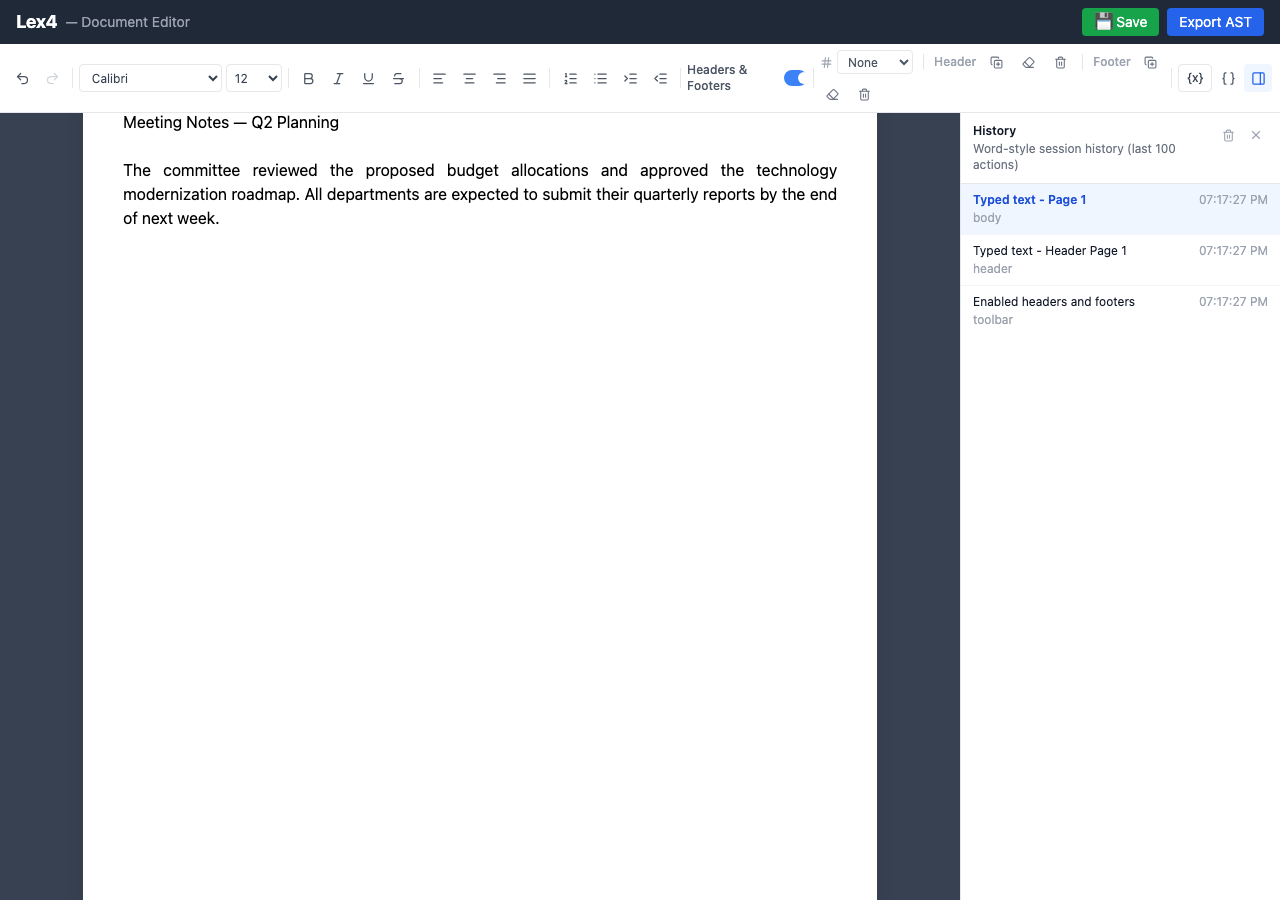
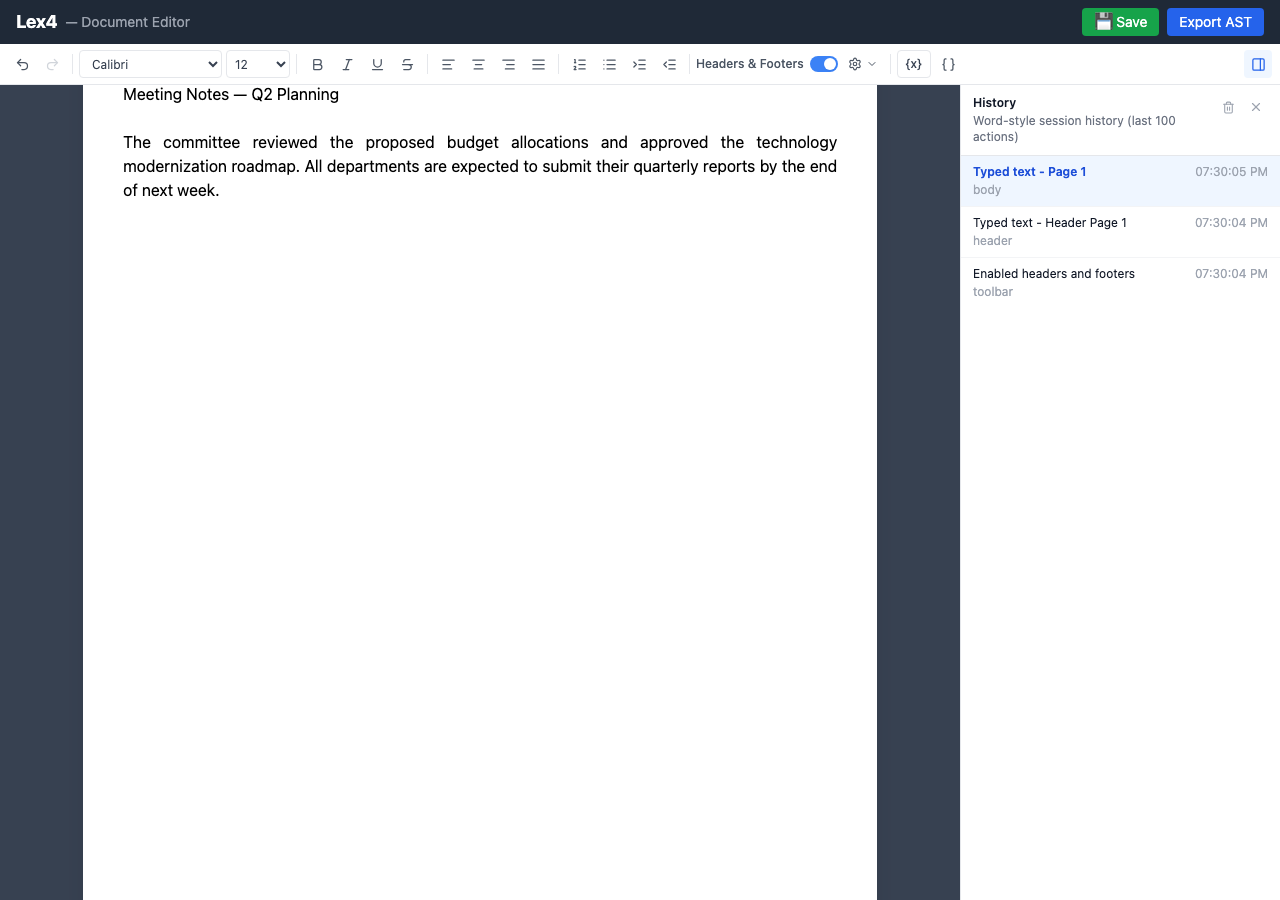
Restructure header/footer toolbar into popover menu
Replace flat icon-only toolbar buttons with a settings popover dropdown.
Actions are now grouped into labeled sections (Page Counter, Header,
Footer) with text labels for better discoverability. Page counter
selector changed from <select> to radio-style buttons.

diff --git a/packages/editor/src/components/HeaderFooterActions.tsx b/packages/editor/src/components/HeaderFooterActions.tsx
@@ -1,6 +1,7 @@
-import React from 'react';
+import React, { useCallback, useEffect, useRef, useState } from 'react';
 import {
-  Hash,
+  Settings,
+  ChevronDown,
   CopyPlus,
   Eraser,
   Trash2,
@@ -19,6 +20,13 @@ interface HeaderFooterActionsProps {
   onClearAllFooters: () => void;
 }
 
+const PAGE_COUNTER_OPTIONS: { value: PageCounterMode; label: string }[] = [
+  { value: 'none', label: 'None' },
+  { value: 'header', label: 'Header' },
+  { value: 'footer', label: 'Footer' },
+  { value: 'both', label: 'Both' },
+];
+
 export const HeaderFooterActions: React.FC<HeaderFooterActionsProps> = ({
   activePageId,
   pageCounterMode,
@@ -30,112 +38,160 @@ export const HeaderFooterActions: React.FC<HeaderFooterActionsProps> = ({
   onClearAllHeaders,
   onClearAllFooters,
 }) => {
+  const [open, setOpen] = useState(false);
+  const containerRef = useRef<HTMLDivElement>(null);
   const hasActivePage = activePageId !== null;
-  const handlePageCounterModeChange = (event: React.ChangeEvent<HTMLSelectElement>) => {
-    const nextMode = event.target.value;
-    if (nextMode === 'none' || nextMode === 'header' || nextMode === 'footer' || nextMode === 'both') {
-      onPageCounterModeChange(nextMode);
-    }
+
+  const close = useCallback(() => setOpen(false), []);
+
+  useEffect(() => {
+    if (!open) return;
+    const handleClickOutside = (e: MouseEvent) => {
+      if (containerRef.current && !containerRef.current.contains(e.target as Node)) {
+        close();
+      }
+    };
+    document.addEventListener('mousedown', handleClickOutside);
+    return () => document.removeEventListener('mousedown', handleClickOutside);
+  }, [open, close]);
+
+  const handleAction = (action: () => void) => {
+    action();
+    close();
   };
 
   return (
-    <div
-      className="flex flex-wrap items-center gap-2 text-xs"
-      data-testid="header-footer-actions"
-    >
-      <label className="flex items-center gap-1 text-gray-500" htmlFor="page-counter-mode">
-        <Hash size={13} className="text-gray-400" />
-        <select
-          id="page-counter-mode"
-          className="h-6 rounded border border-gray-200 bg-white px-1.5 text-xs text-gray-600
-                     focus:border-blue-400 focus:outline-none focus:ring-1 focus:ring-blue-400"
-          data-testid="page-counter-mode"
-          value={pageCounterMode}
-          onChange={handlePageCounterModeChange}
+    <div ref={containerRef} className="relative" data-testid="header-footer-actions">
+      <button
+        type="button"
+        onMouseDown={(e) => e.preventDefault()}
+        onClick={() => setOpen(!open)}
+        className={`
+          flex h-7 items-center gap-1 rounded px-1.5 text-xs transition-colors
+          ${open
+            ? 'bg-blue-50 text-blue-600'
+            : 'text-gray-600 hover:bg-gray-100 hover:text-gray-900'}
+        `}
+        data-testid="header-footer-menu-trigger"
+        aria-expanded={open}
+        aria-haspopup="true"
+      >
+        <Settings size={14} />
+        <ChevronDown size={12} />
+      </button>
+
+      {open && (
+        <div
+          className="absolute left-0 top-full mt-1 z-50 w-56 rounded-lg border border-gray-200 bg-white py-1 shadow-lg"
+          role="menu"
+          data-testid="header-footer-menu"
         >
-          <option value="none">None</option>
-          <option value="header">Header</option>
-          <option value="footer">Footer</option>
-          <option value="both">Both</option>
-        </select>
-      </label>
+          <SectionLabel>Page counter</SectionLabel>
+          <div className="px-3 pb-2 grid grid-cols-2 gap-1" data-testid="page-counter-mode">
+            {PAGE_COUNTER_OPTIONS.map(({ value, label }) => (
+              <button
+                key={value}
+                type="button"
+                role="menuitemradio"
+                aria-checked={pageCounterMode === value}
+                onMouseDown={(e) => e.preventDefault()}
+                onClick={() => onPageCounterModeChange(value)}
+                className={`
+                  rounded px-2 py-1 text-xs text-left transition-colors
+                  ${pageCounterMode === value
+                    ? 'bg-blue-50 text-blue-700 font-medium'
+                    : 'text-gray-600 hover:bg-gray-100'}
+                `}
+                data-testid={`page-counter-${value}`}
+              >
+                {label}
+              </button>
+            ))}
+          </div>
 
-      <ActionDivider />
+          <MenuDivider />
 
-      <span className="text-gray-400 font-medium">Header</span>
-      <ActionIconButton
-        title="Copy header to all pages"
-        icon={<CopyPlus size={13} />}
-        onClick={onCopyHeaderToAll}
-        disabled={!hasActivePage}
-        testId="copy-header-all"
-      />
-      <ActionIconButton
-        title="Clear header on this page"
-        icon={<Eraser size={13} />}
-        onClick={onClearHeader}
-        disabled={!hasActivePage}
-        testId="clear-header"
-      />
-      <ActionIconButton
-        title="Clear all headers"
-        icon={<Trash2 size={13} />}
-        onClick={onClearAllHeaders}
-        testId="clear-all-headers"
-      />
+          <SectionLabel>Header</SectionLabel>
+          <MenuItem
+            icon={<CopyPlus size={14} />}
+            label="Copy to all pages"
+            onClick={() => handleAction(onCopyHeaderToAll)}
+            disabled={!hasActivePage}
+            testId="copy-header-all"
+          />
+          <MenuItem
+            icon={<Eraser size={14} />}
+            label="Clear this page"
+            onClick={() => handleAction(onClearHeader)}
+            disabled={!hasActivePage}
+            testId="clear-header"
+          />
+          <MenuItem
+            icon={<Trash2 size={14} />}
+            label="Clear all"
+            onClick={() => handleAction(onClearAllHeaders)}
+            testId="clear-all-headers"
+          />
 
-      <ActionDivider />
+          <MenuDivider />
 
-      <span className="text-gray-400 font-medium">Footer</span>
-      <ActionIconButton
-        title="Copy footer to all pages"
-        icon={<CopyPlus size={13} />}
-        onClick={onCopyFooterToAll}
-        disabled={!hasActivePage}
-        testId="copy-footer-all"
-      />
-      <ActionIconButton
-        title="Clear footer on this page"
-        icon={<Eraser size={13} />}
-        onClick={onClearFooter}
-        disabled={!hasActivePage}
-        testId="clear-footer"
-      />
-      <ActionIconButton
-        title="Clear all footers"
-        icon={<Trash2 size={13} />}
-        onClick={onClearAllFooters}
-        testId="clear-all-footers"
-      />
+          <SectionLabel>Footer</SectionLabel>
+          <MenuItem
+            icon={<CopyPlus size={14} />}
+            label="Copy to all pages"
+            onClick={() => handleAction(onCopyFooterToAll)}
+            disabled={!hasActivePage}
+            testId="copy-footer-all"
+          />
+          <MenuItem
+            icon={<Eraser size={14} />}
+            label="Clear this page"
+            onClick={() => handleAction(onClearFooter)}
+            disabled={!hasActivePage}
+            testId="clear-footer"
+          />
+          <MenuItem
+            icon={<Trash2 size={14} />}
+            label="Clear all"
+            onClick={() => handleAction(onClearAllFooters)}
+            testId="clear-all-footers"
+          />
+        </div>
+      )}
     </div>
   );
 };
 
-interface ActionIconButtonProps {
-  title: string;
+const SectionLabel: React.FC<{ children: React.ReactNode }> = ({ children }) => (
+  <div className="px-3 pt-2 pb-1 text-[10px] font-semibold uppercase tracking-wider text-gray-400">
+    {children}
+  </div>
+);
+
+interface MenuItemProps {
   icon: React.ReactNode;
+  label: string;
   onClick: () => void;
   disabled?: boolean;
   testId: string;
 }
 
-const ActionIconButton: React.FC<ActionIconButtonProps> = ({ title, icon, onClick, disabled, testId }) => (
+const MenuItem: React.FC<MenuItemProps> = ({ icon, label, onClick, disabled, testId }) => (
   <button
     type="button"
-    title={title}
-    aria-label={title}
+    role="menuitem"
     onMouseDown={(e) => e.preventDefault()}
     onClick={onClick}
     disabled={disabled}
-    className="flex h-6 w-6 items-center justify-center rounded text-gray-500 transition-colors
-               hover:bg-gray-200/60 hover:text-gray-700
-               disabled:cursor-not-allowed disabled:text-gray-300"
+    className="flex w-full items-center gap-2 px-3 py-1.5 text-xs text-gray-700 transition-colors
+               hover:bg-gray-50 disabled:cursor-not-allowed disabled:text-gray-300"
     data-testid={testId}
   >
     {icon}
+    {label}
   </button>
 );
 
-const ActionDivider: React.FC = () => (
-  <div className="mx-0.5 h-4 w-px bg-gray-300/60" />
+const MenuDivider: React.FC = () => (
+  <div className="my-1 h-px bg-gray-100" />
 );

diff --git a/e2e/tests/page-counter.spec.ts b/e2e/tests/page-counter.spec.ts
@@ -36,16 +36,18 @@ test.describe('Page Counter', () => {
   test('page counter selector appears with header/footer controls', async ({ page }) => {
     await page.getByTestId('header-footer-switch').click();
 
-    const selector = page.getByTestId('page-counter-mode');
-    await expect(selector).toBeVisible();
-    await expect(selector).toHaveValue('none');
+    await page.getByTestId('header-footer-menu-trigger').click();
+    const menu = page.getByTestId('page-counter-mode');
+    await expect(menu).toBeVisible();
+    await expect(page.getByTestId('page-counter-none')).toHaveAttribute('aria-checked', 'true');
   });
 
   test('page counter can render in the header across all pages', async ({ page }) => {
     await page.getByTestId('header-footer-switch').click();
     await createAdditionalPages(page);
 
-    await page.getByTestId('page-counter-mode').selectOption('header');
+    await page.getByTestId('header-footer-menu-trigger').click();
+    await page.getByTestId('page-counter-header').click();
 
     const pageCount = await page.locator('[data-page-id]').count();
     expect(pageCount).toBeGreaterThanOrEqual(2);
@@ -62,7 +64,8 @@ test.describe('Page Counter', () => {
     await page.getByTestId('header-footer-switch').click();
     await createAdditionalPages(page);
 
-    await page.getByTestId('page-counter-mode').selectOption('both');
+    await page.getByTestId('header-footer-menu-trigger').click();
+    await page.getByTestId('page-counter-both').click();
 
     const pageCount = await page.locator('[data-page-id]').count();
     expect(pageCount).toBeGreaterThanOrEqual(2);
@@ -78,14 +81,15 @@ test.describe('Page Counter', () => {
 
   test('page counter can render in the footer and be disabled again', async ({ page }) => {
     await page.getByTestId('header-footer-switch').click();
-    await page.getByTestId('page-counter-mode').selectOption('footer');
+    await page.getByTestId('header-footer-menu-trigger').click();
+    await page.getByTestId('page-counter-footer').click();
 
     const footerCounters = page.locator('[data-testid^="page-counter-footer-"]');
     await expect(footerCounters).toHaveCount(1);
     await expect(footerCounters.first()).toHaveText('Page 1 of 1');
     await expect(page.locator('[data-testid^="page-counter-header-"]')).toHaveCount(0);
 
-    await page.getByTestId('page-counter-mode').selectOption('none');
+    await page.getByTestId('page-counter-none').click();
     await expect(page.locator('[data-testid^="page-counter-footer-"]')).toHaveCount(0);
   });
 });

diff --git a/e2e/tests/header-footer-pagination.spec.ts b/e2e/tests/header-footer-pagination.spec.ts
@@ -66,6 +66,7 @@ test.describe('Header/Footer Pagination', () => {
 
     await typeLargeRegion(page, 'header');
     await page.locator('[data-testid^="page-body-"]').first().click();
+    await page.getByTestId('header-footer-menu-trigger').click();
     await page.getByTestId('copy-header-all').click();
     await page.waitForTimeout(5000);
 
@@ -82,6 +83,7 @@ test.describe('Header/Footer Pagination', () => {
 
     await typeLargeRegion(page, 'footer');
     await page.locator('[data-testid^="page-body-"]').first().click();
+    await page.getByTestId('header-footer-menu-trigger').click();
     await page.getByTestId('copy-footer-all').click();
     await page.waitForTimeout(5000);
 
@@ -96,11 +98,13 @@ test.describe('Header/Footer Pagination', () => {
     await createLargeBody(page);
     await typeLargeRegion(page, 'header');
     await page.locator('[data-testid^="page-body-"]').first().click();
+    await page.getByTestId('header-footer-menu-trigger').click();
     await page.getByTestId('copy-header-all').click();
     await page.waitForTimeout(5000);
 
     const expandedPageCount = await page.locator('[data-page-id]').count();
 
+    await page.getByTestId('header-footer-menu-trigger').click();
     await page.getByTestId('clear-all-headers').click();
     await page.waitForTimeout(5000);
 

diff --git a/packages/editor/src/components/Toolbar.tsx b/packages/editor/src/components/Toolbar.tsx
@@ -350,20 +350,17 @@ export const Toolbar: React.FC = () => {
         />
 
         {document.headerFooterEnabled && (
-          <>
-            <Divider />
-            <HeaderFooterActions
-              activePageId={activePageId}
-              pageCounterMode={document.pageCounterMode}
-              onPageCounterModeChange={handlePageCounterModeChange}
-              onCopyHeaderToAll={handleCopyHeaderToAll}
-              onCopyFooterToAll={handleCopyFooterToAll}
-              onClearHeader={handleClearHeader}
-              onClearFooter={handleClearFooter}
-              onClearAllHeaders={handleClearAllHeaders}
-              onClearAllFooters={handleClearAllFooters}
-            />
-          </>
+          <HeaderFooterActions
+            activePageId={activePageId}
+            pageCounterMode={document.pageCounterMode}
+            onPageCounterModeChange={handlePageCounterModeChange}
+            onCopyHeaderToAll={handleCopyHeaderToAll}
+            onCopyFooterToAll={handleCopyFooterToAll}
+            onClearHeader={handleClearHeader}
+            onClearFooter={handleClearFooter}
+            onClearAllHeaders={handleClearAllHeaders}
+            onClearAllFooters={handleClearAllFooters}
+          />
         )}
 
         {toolbarItems.length > 0 && (

diff --git a/e2e/tests/bug-regressions.spec.ts b/e2e/tests/bug-regressions.spec.ts
@@ -449,6 +449,7 @@ test.describe('Bug Fix Regressions', () => {
     await page.waitForTimeout(300);
 
     // Click "Copy Header → All"
+    await page.getByTestId('header-footer-menu-trigger').click();
     await page.getByTestId('copy-header-all').click();
     await page.waitForTimeout(1000);
 
@@ -471,6 +472,7 @@ test.describe('Bug Fix Regressions', () => {
     await page.waitForTimeout(500);
 
     // Click "Clear All Headers"
+    await page.getByTestId('header-footer-menu-trigger').click();
     await page.getByTestId('clear-all-headers').click();
     await page.waitForTimeout(1000);
 
